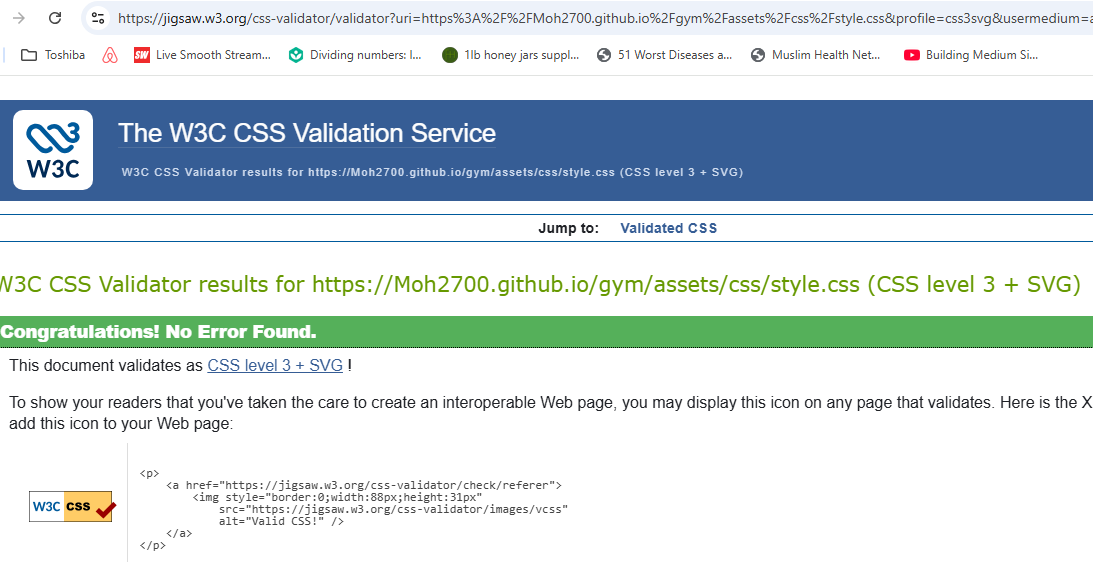
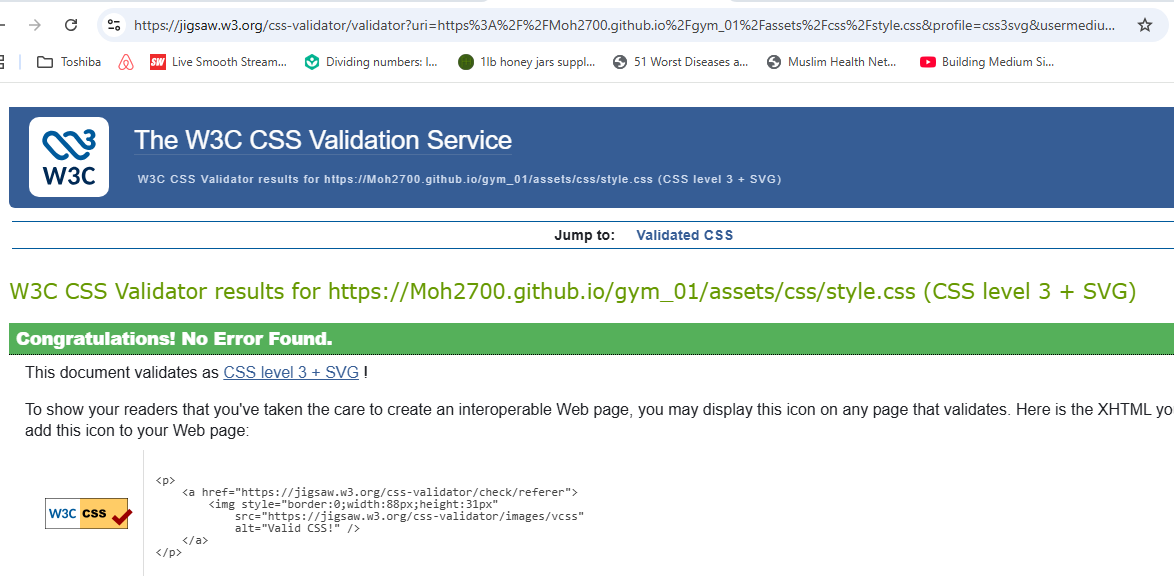
altering png extension from uppercase to lowercase

diff --git a/README.md b/README.md
@@ -290,7 +290,7 @@ C. **Laptop Resolution 1024x520**
 ## Home page
 
 1. Official W3C validator
-   [W3C validator](https://validator.w3.org/nu/?doc=https://Moh2700.github.io/gym/index.html)
+   [W3C validator](https://validator.w3.org/nu/?doc=https://Moh2700.github.io/gym_01/index.html)
 
 2. **Evidence**
 
@@ -299,7 +299,7 @@ C. **Laptop Resolution 1024x520**
 ## aboutus page
 
 1. Official W3C validator
-   [W3C validator](https://validator.w3.org/nu/?doc=https://Moh2700.github.io/gym/aboutus.html)
+   [W3C validator](https://validator.w3.org/nu/?doc=https://Moh2700.github.io/gym_01/aboutus.html)
 
 2. **Evidence**
 
@@ -308,7 +308,7 @@ C. **Laptop Resolution 1024x520**
 ## Instructor page
 
 1. Official W3C validator
-   [W3C validator](https://validator.w3.org/nu/?doc=https://Moh2700.github.io/gym/instructor.html)
+   [W3C validator](https://validator.w3.org/nu/?doc=https://Moh2700.github.io/gym_01/instructor.html)
 
 2. **Evidence**
 
@@ -317,7 +317,7 @@ C. **Laptop Resolution 1024x520**
 ## Contact page
 
 1. Official W3C validator
-   [W3C validator](https://validator.w3.org/nu/?doc=https://Moh2700.github.io/gym/contact.html)
+   [W3C validator](https://validator.w3.org/nu/?doc=https://Moh2700.github.io/gym_01/contact.html)
 
 2. **Evidence**
 
@@ -326,7 +326,7 @@ C. **Laptop Resolution 1024x520**
 ## Classes page
 
 1. Official W3C validator
-   [W3C validator](https://validator.w3.org/nu/?doc=https://Moh2700.github.io/gym/classes.html)
+   [W3C validator](https://validator.w3.org/nu/?doc=https://Moh2700.github.io/gym_01/classes.html)
 
 2. **Evidence**
 
@@ -335,7 +335,7 @@ C. **Laptop Resolution 1024x520**
 ## Membership page
 
 1. Official W3C validator
-   [W3C validator](https://validator.w3.org/nu/?doc=https://Moh2700.github.io/gym/membership.html)
+   [W3C validator](https://validator.w3.org/nu/?doc=https://Moh2700.github.io/gym_01/membership.html)
 
 2. **Evidence**
 
@@ -344,7 +344,7 @@ C. **Laptop Resolution 1024x520**
 ## Gallery page
 
 1. Official W3C validator
-   [W3C validator](https://validator.w3.org/nu/?doc=https://Moh2700.github.io/gym/gallery.html)
+   [W3C validator](https://validator.w3.org/nu/?doc=https://Moh2700.github.io/gym_01/gallery.html)
 
 2. **Evidence**
 
@@ -353,7 +353,7 @@ C. **Laptop Resolution 1024x520**
 **CSS Validation**
 
 1. No errors were found when passing through the official
-   [(Jigsaw) validator](https://jigsaw.w3.org/css-validator/validator?uri=https%3A%2F%2FMoh2700.github.io%2Fgym%2Fassets%2Fcss%2Fstyle.css&profile=css3svg&usermedium=all&warning=1&vextwarning=&lang=en)
+   [(Jigsaw) validator](https://jigsaw.w3.org/css-validator/validator?uri=https%3A%2F%2FMoh2700.github.io%2Fgym_01%2Fassets%2Fcss%2Fstyle.css&profile=css3svg&usermedium=all&warning=1&vextwarning=&lang=en)
 
 2. ![Validation](./assets/images/testingpart1/validation/cssvalidation.PNG)
 
@@ -393,42 +393,42 @@ In the membership last section the user can make a selection on **[Happy Deal]**
 - The site was deployed to GitHub pages. The steps to deploy are as follows:
 - In the GitHub repository, navigate to the Settings tab
 
-![Deployment](./assets/images/testingpart1/deployment/settingstab.PNG)
+![Deployment ](./assets/images/testingpart1/deployment/settingstab.PNG)
 
 - From the source section drop-down menu, select the Master Branch
-  ![Deployment](./assets/images/testingpart1/deployment/branch2.PNG)
+  ![Deployement ](./assets/images/testingpart1/deployment/branch2.PNG)
 
 - Once the master branch has been selected, the page will be automatically refreshed with a detailed ribbon display to indicate the successful deployment.
 
-The live link can be found here - https://Moh2700.github.io/gym/index.html
+The live link can be found here - https://Moh2700.github.io/gym_01/index.html
 
 # Credits
 
 This code is taken taken from w3 schools for image rendering in the css file for gallery page.
-![W3 Schools] (https://www.w3schools.com/)
+![W3 Schools](https://www.w3schools.com/)
 
 # Content
 
 **Bootstrap**
 
-- [Bootstrap files] ("https://cdn.jsdelivr.net/npm/bootstrap@5.3.8/dist/css/bootstrap.min.css")
-- [Bootstrap files] ("https://getbootstrap.com/docs/5.3/assets/css/docs.css")
-- [Bootstrap files] ("https://cdn.jsdelivr.net/npm/bootstrap@5.3.8/dist/js/bootstrap.bundle.min.js)
+- [Bootstrap files]("https://cdn.jsdelivr.net/npm/bootstrap@5.3.8/dist/css/bootstrap.min.css")
+- [Bootstrap files]("https://getbootstrap.com/docs/5.3/assets/css/docs.css")
+- [Bootstrap files]("https://cdn.jsdelivr.net/npm/bootstrap@5.3.8/dist/js/bootstrap.bundle.min.js)
 
 **Fontawesome**
 
 The icons in the footer were taken from
 
-- [Font Awesome site] (https://fontawesome.com/)
-- [Font awesome file] Javascript file fontawesome icons ("https://kit.fontawesome.com/dadada79ef.js")
+- [Font Awesome site](https://fontawesome.com/)
+- [Font awesome file]Javascript file fontawesome icons("https://kit.fontawesome.com/dadada79ef.js")
 
 # Media
 
 - **Pexels and Unsplash website**
 
 - The photos were taken from from This Open Source site
-  [Pexels Site] ("https://www.pexels.com/search/gym/") and
-  [Unsplash Site] ("https://unsplash.com/s/photos/gym")
+  [Pexels Site]("https://www.pexels.com/search/gym/") and
+  [Unsplash Site]("https://unsplash.com/s/photos/gym")
 
 - The photos used in the home, classes and aboutus page.
 - The photos used on the home page .

diff --git a/testreadme.md b/testreadme.md
@@ -1,0 +1,100 @@
+<!--
+Source - https://stackoverflow.com/a/42876643
+Posted by Morgoth, modified by community. See post 'Timeline' for change history
+Retrieved 2025-11-30, License - CC BY-SA 3.0
+-->
+
+<h1 align="center">Dev Dictionary</h1>
+<p align="center">Find information on any technology</p>
+<kbd><img src="https://cloud.githubusercontent.com/assets/4705188/20508600/ac62b414-b030-11e6-9dfe-691a6a3250fd.png" alt="image">
+</kbd>
+
+## Overview
+
+This is the repository of **Dev Dictionary**, a Chrome Extension to help developers find information on any technology. It can be installed through the [Chrome Web Store](https://chrome.google.com/webstore/detail/dev-dictionary/mbhildcgplbobgnhgnihmeiaokhdaelf).
+
+## Development
+
+- For more information regarding development of Chrome extensions, see [Getting Started: Building a Chrome Extension](https://developer.chrome.com/extensions/getstarted)
+- For more information regarding Chrome extension APIs, see [Chrome Platform APIs](https://developer.chrome.com/extensions/api_index)
+
+## Libraries
+
+- [React ](https://facebook.github.io/react/)
+- [Redux ](http://redux.js.org/)
+- [Webpack](https://webpack.github.io/)
+- [Node JS](https://nodejs.org)
+- [Bootstrap](http://getbootstrap.com/)
+- [jQuery](https://jquery.com/)
+
+# Markdown syntax guide
+
+## Headers
+
+# This is a Heading h1
+
+## This is a Heading h2
+
+###### This is a Heading h6
+
+## Emphasis
+
+_This text will be italic_  
+_This will also be italic_
+
+**This text will be bold**  
+**This will also be bold**
+
+_You **can** combine them_
+
+## Lists
+
+### Unordered
+
+- Item 1
+- Item 2
+- Item 2a
+- Item 2b
+  - Item 3a
+  - Item 3b
+
+### Ordered
+
+1. Item 1
+2. Item 2
+3. Item 3
+   1. Item 3a
+   2. Item 3b
+
+## Images
+
+![This is an alt text.](/image/sample.webp "This is a sample image.")
+
+## Links
+
+You may be using [Markdown Live Preview](https://markdownlivepreview.com/).
+
+## Blockquotes
+
+> Markdown is a lightweight markup language with plain-text-formatting syntax, created in 2004 by John Gruber with Aaron Swartz.
+>
+> > Markdown is often used to format readme files, for writing messages in online discussion forums, and to create rich text using a plain text editor.
+
+## Tables
+
+| Left columns | Right columns |
+| ------------ | :-----------: |
+| left foo     |   right foo   |
+| left bar     |   right bar   |
+| left baz     |   right baz   |
+
+## Blocks of code
+
+```
+let message = 'Hello world';
+alert(message);
+```
+
+## Inline code
+
+This web site is using `markedjs/marked`.
